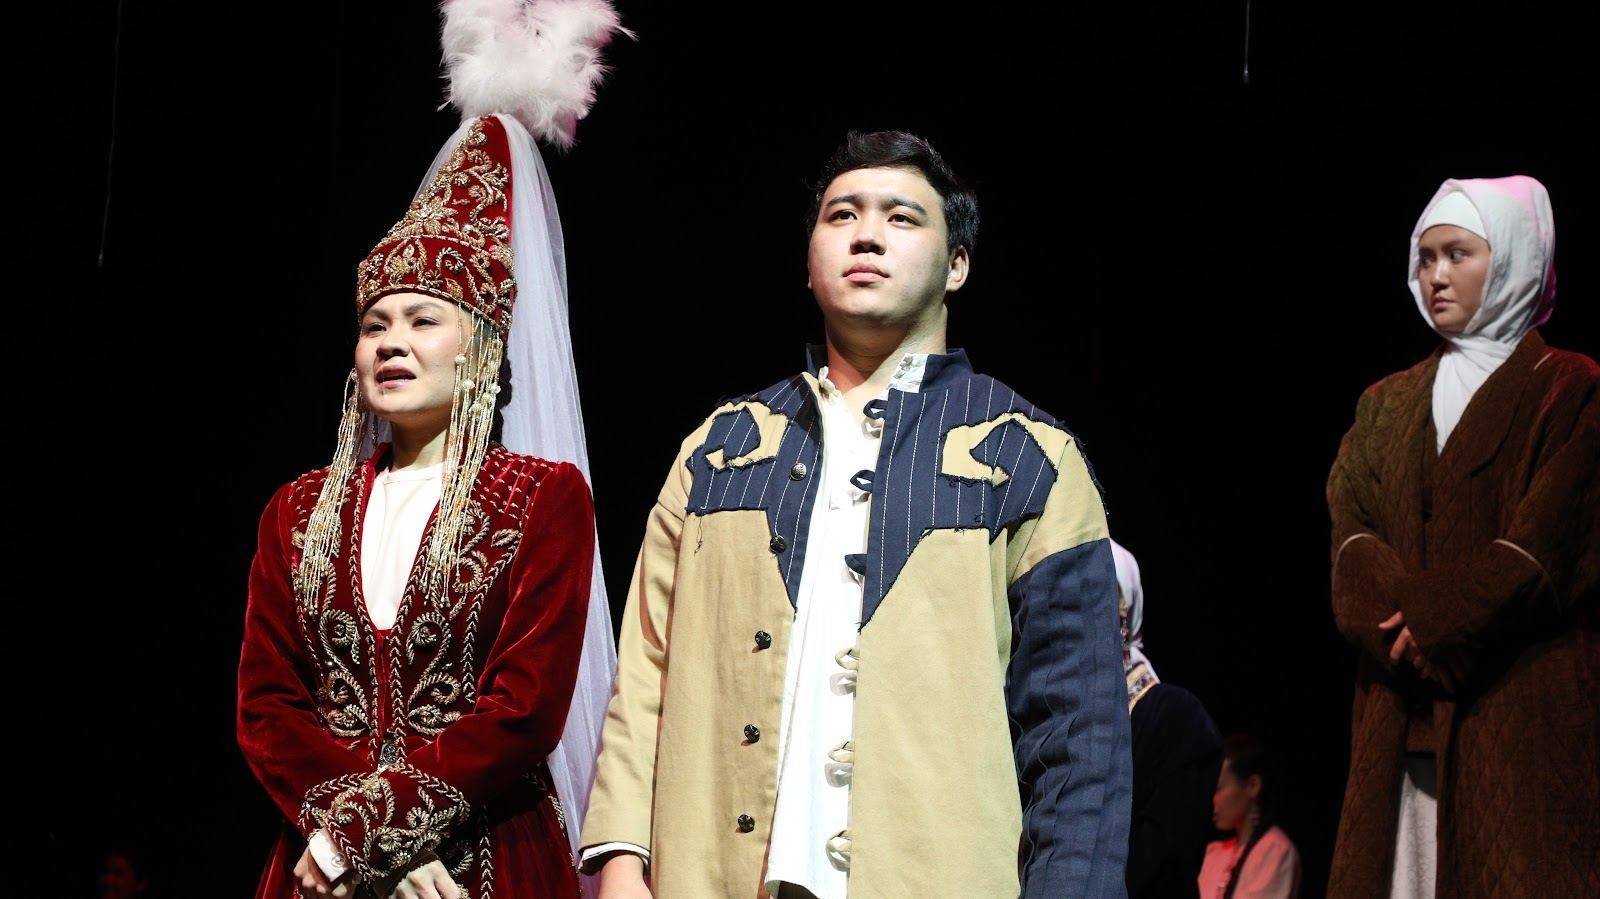
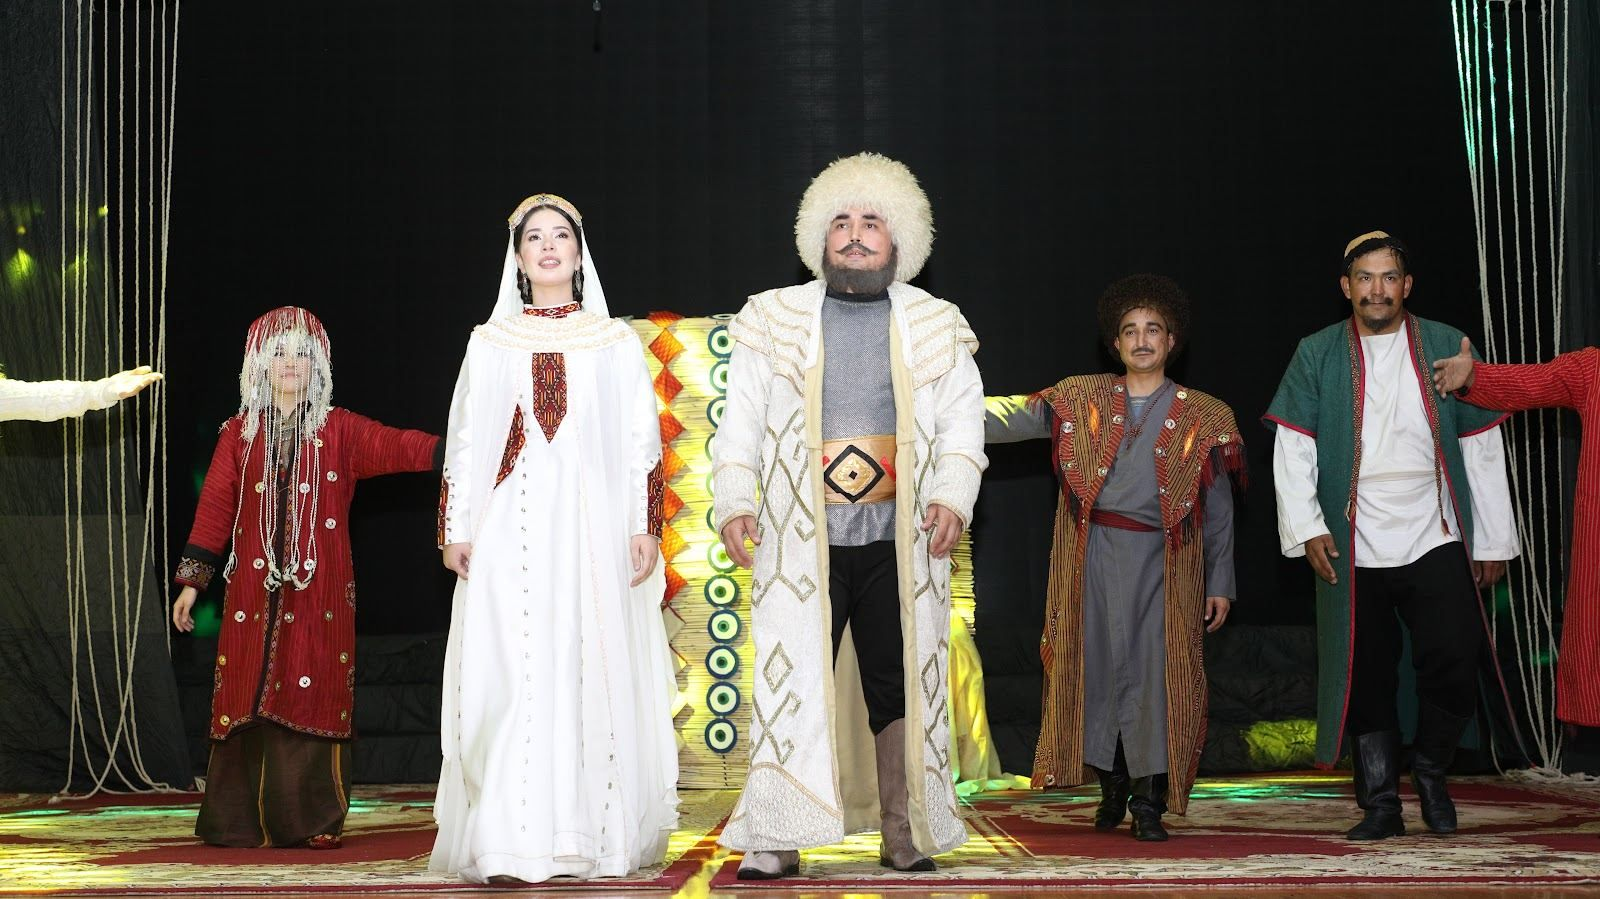
Хиро: анонс фестиваля 2027, афиша Туркестана с гербом, 4 крупных фото награждения; другие нации в блоках «Решение» и «Круглый год»
Claude-Session: https://claude.ai/code/session_013rpSDq8qTCw97r4BebQcgo

diff --git a/components/sections/hero-section.tsx b/components/sections/hero-section.tsx
@@ -9,8 +9,10 @@ type HeroSectionProps = {
   subtitle: string;
   festivalTitle: string;
   festivalDates: string;
-  festivalPhotos: string[];
 };
+
+// Снимки награждения IV фестиваля (public/hero/NN.webp, 640x480): порядок задан заказчиком.
+const CEREMONY_PHOTOS = [1, 2, 3, 4] as const;
 
 export function HeroSection({
   ctaLabel,
@@ -19,31 +21,54 @@ export function HeroSection({
   subtitle,
   festivalTitle,
   festivalDates,
-  festivalPhotos,
 }: HeroSectionProps) {
   const t = useTranslations("Alt");
+  const tHero = useTranslations("HeroSection");
   return (
     <section className="relative overflow-hidden">
       <RouteLinesBackdrop />
       <div className="relative flex flex-col items-center gap-7 px-5 py-16 text-center sm:px-8 sm:py-20 md:px-12 md:py-24">
+        <figure className="flex w-full max-w-sm items-center gap-3 rounded-2xl border border-border bg-background/90 p-2.5 text-left shadow-sm xl:absolute xl:right-10 xl:top-10 xl:w-52 xl:max-w-none xl:flex-col xl:items-stretch xl:gap-2 xl:text-center">
+          <Image
+            src="/images/poster.webp"
+            alt={t("festivalPoster")}
+            width={480}
+            height={686}
+            className="h-auto w-20 flex-none rounded-lg xl:w-full"
+          />
+          <figcaption className="flex flex-col gap-1.5 text-xs text-muted xl:items-center">
+            <Image
+              src="/images/turkestan-logo.webp"
+              alt={t("turkestanLogo")}
+              width={36}
+              height={36}
+              className="h-9 w-9"
+            />
+            <span className="font-display text-sm font-bold leading-tight text-foreground">{tHero("posterCaption")}</span>
+            <span>{tHero("posterDates")}</span>
+          </figcaption>
+        </figure>
         <div className="flex flex-col items-center gap-3">
-          <p className="font-display text-xl font-bold tracking-tight sm:text-2xl">{festivalTitle}</p>
+          <p className="max-w-2xl text-balance font-display text-xl font-bold tracking-tight sm:text-2xl">{festivalTitle}</p>
           <p className="text-sm font-semibold uppercase tracking-[0.14em] text-accent-warm">{festivalDates}</p>
-          {festivalPhotos.length > 0 && (
-            <ul className="mt-1 flex gap-2">
-              {festivalPhotos.map((src) => (
-                <li key={src} className="relative h-16 w-24 overflow-hidden rounded-xl bg-border sm:h-20 sm:w-28">
+          <figure className="mt-2 flex flex-col items-center gap-2">
+            <ul className="grid grid-cols-2 gap-2 sm:grid-cols-4">
+              {CEREMONY_PHOTOS.map((n) => (
+                <li key={n} className="relative aspect-[4/3] w-36 overflow-hidden rounded-xl bg-border sm:w-40 md:w-44">
                   <Image
-                    src={src}
-                    alt={t("galleryPhoto")}
+                    src={`/hero/${String(n).padStart(2, "0")}.webp`}
+                    alt={t(`ceremony${n}`)}
                     fill
-                    sizes="112px"
+                    sizes="176px"
                     className="object-cover"
                   />
                 </li>
               ))}
             </ul>
-          )}
+            <figcaption className="text-xs font-medium uppercase tracking-[0.14em] text-muted">
+              {tHero("ceremonyCaption")}
+            </figcaption>
+          </figure>
         </div>
         <h1 className="w-full max-w-3xl text-balance font-display text-[2.5rem] font-bold leading-[1.08] tracking-tight sm:text-5xl md:text-6xl">
           {titleMain.trim()}{" "}

diff --git a/lib/content/fields.ts b/lib/content/fields.ts
@@ -17,8 +17,8 @@ export const CONTENT_FIELDS: ContentField[] = [
   },
   { key: "hero_subtitle", section: "Главный экран", label: "Подзаголовок", multiline: true },
 
-  { key: "hero_festival_title", section: "Главный экран", label: "Прошедший фестиваль: название" },
-  { key: "hero_festival_dates", section: "Главный экран", label: "Прошедший фестиваль: даты" },
+  { key: "hero_festival_title", section: "Главный экран", label: "Анонс фестиваля: название" },
+  { key: "hero_festival_dates", section: "Главный экран", label: "Анонс фестиваля: даты" },
 
   { key: "problem_badge", section: "Трудность", label: "Бейдж над заголовком" },
   { key: "problem_title", section: "Трудность", label: "Заголовок" },

diff --git a/app/[locale]/page.tsx b/app/[locale]/page.tsx
@@ -44,7 +44,6 @@ export default async function Home({ params }: { params: Promise<{ locale: strin
           subtitle={c.hero_subtitle}
           festivalTitle={c.hero_festival_title}
           festivalDates={c.hero_festival_dates}
-          festivalPhotos={galleryPhotos.slice(0, 3).map((p) => p.thumb)}
         />
         <OpinionCta />
         <ProblemSection

diff --git a/CLAUDE.md b/CLAUDE.md
@@ -32,7 +32,7 @@ node scripts/migrate.mjs   # применить scripts/migrate.sql к DATABASE_
 1. `submitWaitlistBasic` (`app/actions.ts`) — имя/email + honeypot-поле `company` + rate-limit по IP (`lib/rate-limit.ts`, in-memory, 5 req/60s — не переживает рестарт/несколько инстансов), `INSERT ... ON CONFLICT (lower(email)) DO NOTHING` в `lib/waitlist.ts`.
 2. `submitWaitlistDetails` — роль (студент/выпускник), университет (справочник `festival_universities`, редактируется в `/admin/universities`), год выпуска (опционально), опциональное мнение о фестивале (`opinion_category`/`opinion_text`, 5 фиксированных категорий + «Другое», см. `lib/constants.ts`). Email не отправляется — см. переменные окружения.
 
-Секция фестиваля (`components/festival/festival-section.tsx`) показывает список вузов-участников без рейтинга и счётчиков — соревновательный элемент убран по просьбе клиента. Галерея (`components/sections/gallery-section.tsx`, `components/gallery/*`, `lib/gallery.ts`) читает фото из `public/gallery/<папка-вуза>/*.webp` и собирает общую ленту по кругу (по кадру с каждого вуза, без деления по странам); пока папки пусты, секция не рендерится. Оригиналы лежат в `gallery-src/<вуз>/NN.jpg` (в `.dockerignore`, в образ не попадают); `npm run gallery:optimize` (`scripts/optimize-gallery.mjs`, sharp) делает из них три WebP: крупный 1280px (`NN.webp`), для телефонов 800px (`m/`) и плитку 320px (`thumbs/`). Лента — бегущие 3 ряда (`components/gallery/gallery-view.tsx`), клик открывает Fancybox (`@fancyapps/ui`, динамический импорт; версия по ширине экрана, предзагрузка по `pointerdown` и соседних слайдов, zoom от плитки); кнопка «Открыть галерею» под лентой показывает оверлей-сетку всех миниатюр (`components/gallery/all-photos.tsx`, портал в body), клик по плитке открывает Fancybox на этом кадре. Первые 3 фото показываются и в хиро рядом с плашкой о фестивале. Фото самих блоков лендинга (хиро, «Для кого», «Круглый год», «Решение») лежат в `public/images/` — внешних картинок на сайте нет, `remotePatterns` в `next.config.ts` убран.
+Секция фестиваля (`components/festival/festival-section.tsx`) показывает список вузов-участников без рейтинга и счётчиков — соревновательный элемент убран по просьбе клиента. Галерея (`components/sections/gallery-section.tsx`, `components/gallery/*`, `lib/gallery.ts`) читает фото из `public/gallery/<папка-вуза>/*.webp` и собирает общую ленту по кругу (по кадру с каждого вуза, без деления по странам); пока папки пусты, секция не рендерится. Оригиналы лежат в `gallery-src/<вуз>/NN.jpg` (в `.dockerignore`, в образ не попадают); `npm run gallery:optimize` (`scripts/optimize-gallery.mjs`, sharp) делает из них три WebP: крупный 1280px (`NN.webp`), для телефонов 800px (`m/`) и плитку 320px (`thumbs/`). Лента — бегущие 3 ряда (`components/gallery/gallery-view.tsx`), клик открывает Fancybox (`@fancyapps/ui`, динамический импорт; версия по ширине экрана, предзагрузка по `pointerdown` и соседних слайдов, zoom от плитки); кнопка «Открыть галерею» под лентой показывает оверлей-сетку всех миниатюр (`components/gallery/all-photos.tsx`, портал в body), клик по плитке открывает Fancybox на этом кадре. В хиро — анонс будущего фестиваля (2027, тексты `hero_festival_*` в БД), афиша прошедшего (`public/images/poster.webp` + герб Туркестанской области, вырезан с афиши) и 4 снимка награждения IV фестиваля из `public/hero/NN.webp` (порядок задан заказчиком; подписи — `Alt.ceremony1..4`, `HeroSection.*`). Фото самих блоков лендинга (хиро, «Для кого», «Круглый год», «Решение») лежат в `public/images/` — внешних картинок на сайте нет, `remotePatterns` в `next.config.ts` убран.
 
 **Стена идей** (`/ideas` + блок на главной, `components/ideas/*`, `app/idea-actions.ts`, `lib/ideas.ts`) — идеи и ответы без регистрации (категория из `OPINION_CATEGORIES`, страна из `IDEA_COUNTRIES`, вуз опционально, имя опционально), сначала получают статус `pending` (колонка `status`: pending/published/hidden), публикуются после решения модератора; автор видит свою запись с бейджем «На модерации» по cookie `my_posts` (`lib/my-posts.ts`). Honeypot + rate-limit как в остальных формах. Перевод ленивый и бесплатный: `lib/translate.ts` ходит в MyMemory (без ключа и карты), `ensureTranslations` в `lib/ideas.ts` переводит только на тот язык, на котором запись открыли, и кэширует в `translations` (JSONB) через `after()`; при исчерпанном лимите или сбое показывается оригинал. **Модерация** — `lib/telegram.ts` на голом fetch + SOCKS5 (`undici` + `fetch-socks`): новая запись → карточка с кнопками «Опубликовать/Скрыть» каждому модератору, нажатие приходит на вебхук `app/api/telegram/webhook/route.ts` (проверка секрета, обработка после ответа через `after()`), карточки обновляются у всех. Вебхук регистрируется при старте сервера (`instrumentation.ts`). Нет постоянных соединений и циклов. Если бот не настроен или Telegram недоступен — записи остаются `pending` и решаются в `/admin/ideas` (опубликовать/скрыть/удалить).
 
